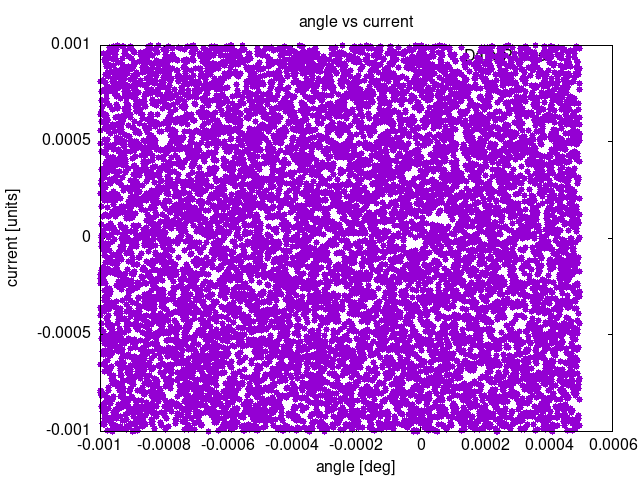
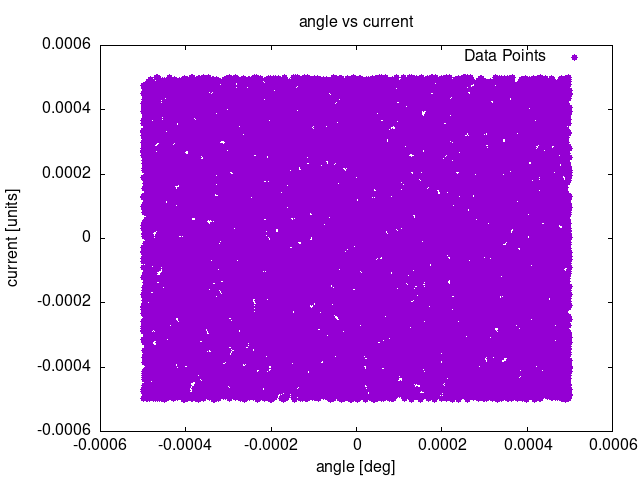
small generator changes

diff --git a/sun-sensor-simulator/black_body.cpp b/sun-sensor-simulator/black_body.cpp
@@ -54,14 +54,25 @@ std::vector<Particle> black_body::generate_particles(int count) {
         std::mt19937 gen(rd());
         std::uniform_real_distribution<> dis_x(-it->size_x, it->size_x);
         std::uniform_real_distribution<> dis_y(-it->size_y, it->size_y);
+        std::vector<Vector_3D> generated;
+
         for (int i = 0; i < count; i++) {
+            Vector_3D pos_S;
             // Generate particle on plane and transform to global frame
-            double pos_x = dis_x(gen);
-            double pos_y = dis_y(gen);
-            
+            bool pass = false;
+            while (pass == false) {
+                double pos_x = dis_x(gen);
+                double pos_y = dis_y(gen);
+                pos_S = Vector_3D(pos_x, pos_y, 0);
+                pass = true;
+                for (int j = 0; j < generated.size(); j++){
+                    if (generated[j].distance_to(pos_S) < (it->size_x + it->size_y) / (16 * count)) pass = false;
+                }
+            }
+            generated.push_back(pos_S);
+
             Vector_3D pos_G_prime;
             Vector_3D pos_G;
-            Vector_3D pos_S(pos_x, pos_y, 0);
             pos_G_prime = it->dcm_BN * pos_S;
             pos_G = pos_G_prime + it->origin; // this is not needed
 
@@ -76,6 +87,7 @@ std::vector<Particle> black_body::generate_particles(int count) {
             double wavelength = this->generate_photon(5770, this->wavelength_min, this->wavelength_max);
 
             Particle particle(particle_position, bb_to_plane, wavelength, this->particle_enegery);
+            printf("%f %f \n", pos_S.x, pos_S.y);
 
             particles.push_back(particle);
         } 

diff --git a/sun-sensor-simulator/plane.cpp b/sun-sensor-simulator/plane.cpp
@@ -104,7 +104,7 @@ int8_t Plane::particle_colission(Particle *particle){
         double ss_angle = asin(si);
         theta = angle_of_incidence - ss_angle; 
     } else theta = 0;
-    printf("angle: %f, aoi %f \n", theta * 57.2, angle_of_incidence * 57.2);
+    //printf("angle: %f, aoi %f \n", theta * 57.2, angle_of_incidence * 57.2);
     
     // rotation axis
     Vector_3D axis;
@@ -116,11 +116,10 @@ int8_t Plane::particle_colission(Particle *particle){
     Vector_3D k;
     k = axis.normalize();
     particle_direction_rot_S = particle_direction_S * cos (theta) + k.cross_product(particle_direction_S) * sin(theta) + k * (k * particle_direction_S) * (1 - cos (theta));
-    particle_direction_rot_S.print();
 
     particle_direction_rot_G = this->dcm_BN * particle_direction_rot_S;
     particle->direction = particle_direction_rot_G;
-    printf("new angle: %f \n", (this->normal_S.calculate_angle(particle_direction_rot_S * -1)) * 57.2);
+    //printf("new angle: %f \n", (this->normal_S.calculate_angle(particle_direction_rot_S * -1)) * 57.2);
 
     return 0;
 

diff --git a/sun-sensor-simulator/main.cpp b/sun-sensor-simulator/main.cpp
@@ -33,7 +33,7 @@ int main(){
         st.push_back((currents.at(0)+ currents.at(1) + currents.at(2) +currents.at(3)) / 400);
         x += 0.5;
     }
-    plt::scatter(x_v, y_v);
+    plt::plot(x_v, y_v);
     plt::scatter(x_v, st);
     plt::xlabel("INCIDENT LIGHT ANGLE (Degrees)");
     plt::ylabel("ANGULAR RESPONSE (Ratio)");

diff --git a/sun-sensor-simulator/math/matlib.h b/sun-sensor-simulator/math/matlib.h
@@ -23,6 +23,7 @@ class Vector_3D {
         void print() const;
         double calculate_angle(Vector_3D other) const;
         Matrix_3D rmat_to(Vector_3D target) const;
+        double distance_to(Vector_3D other) const;
 
         Vector_3D operator*(double value) const;
         Vector_3D operator/(double value) const;

diff --git a/sun-sensor-simulator/math/matlib.cpp b/sun-sensor-simulator/math/matlib.cpp
@@ -113,6 +113,12 @@ Matrix_3D Vector_3D::rmat_to(Vector_3D target) const{
 
 }
 
+double Vector_3D::distance_to(Vector_3D other) const {
+    Vector_3D res;
+    res = *this - other;
+    return res.norm();
+}
+
 void Vector_3D::print() const{
     printf("Vector: \n");
     printf("x: %.5f \n", this->x);

diff --git a/sun-sensor-simulator/sun_sensor/sun_sensor.cpp b/sun-sensor-simulator/sun_sensor/sun_sensor.cpp
@@ -166,7 +166,6 @@ void Sun_sensor::read_radiant_sensitivity() {
 
     getline(in, contents);
     sscanf(contents.c_str(), "%d\n", &len_y);
-    printf("%s \n", contents.c_str());
     for (int i = 0; i < len_y; i++){
         getline(in, contents);
         radiant_senitivity_data new_data;
